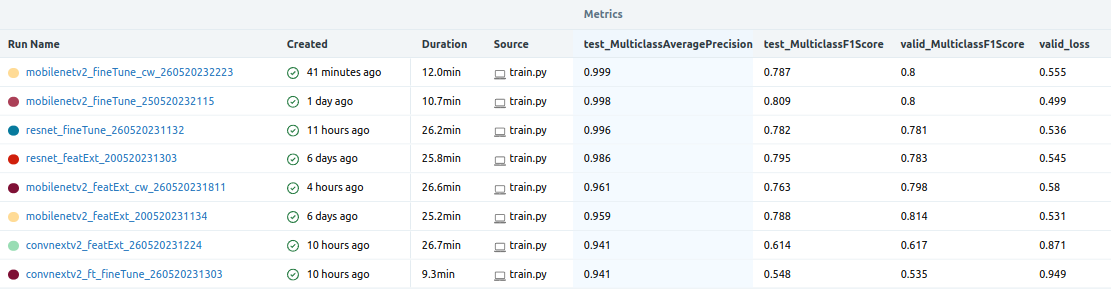
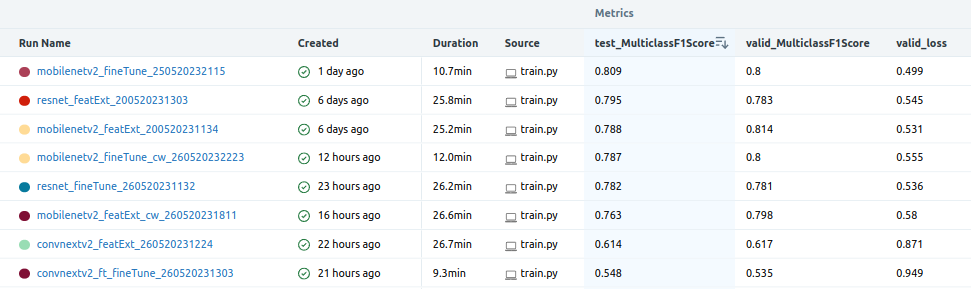
added weighted avg to metrics

diff --git a/src/models.py b/src/models.py
@@ -6,7 +6,7 @@ import torch.nn.functional as F
 import torchvision
 from lightning.pytorch import LightningModule
 from model_utils import create_eval_plots
-from torchmetrics import Accuracy, AveragePrecision, F1Score, MetricCollection
+from torchmetrics import Accuracy, F1Score, MetricCollection, Precision, Recall
 from transformers import AutoModel
 
 
@@ -18,6 +18,7 @@ class HFLitImageClassifier(LightningModule):
         dropout_rate: float = 0.2,
         learning_rate: float = 0.001,
         class_weights: List[float] = None,
+        metric_avg: str = "weighted",
     ):
 
         super().__init__()
@@ -25,6 +26,7 @@ class HFLitImageClassifier(LightningModule):
         self.num_classes = num_classes
         self.learning_rate = learning_rate
         self.class_weights = class_weights
+        self.metric_avg = metric_avg
         self.body = AutoModel.from_pretrained(checkpoint)
         self.last_layer_size = list(self.body.modules())[-1].normalized_shape[0]
         self.classifier = nn.Sequential(
@@ -41,9 +43,26 @@ class HFLitImageClassifier(LightningModule):
         )
         metrics = MetricCollection(
             [
-                Accuracy(task="multiclass", num_classes=self.num_classes),
-                F1Score(task="multiclass", num_classes=self.num_classes),
-                AveragePrecision(task="multiclass", num_classes=self.num_classes),
+                Accuracy(
+                    task="multiclass",
+                    num_classes=self.num_classes,
+                    average=self.metric_avg,
+                ),
+                F1Score(
+                    task="multiclass",
+                    num_classes=self.num_classes,
+                    average=self.metric_avg,
+                ),
+                Precision(
+                    task="multiclass",
+                    num_classes=self.num_classes,
+                    average=self.metric_avg,
+                ),
+                Recall(
+                    task="multiclass",
+                    num_classes=self.num_classes,
+                    average=self.metric_avg,
+                ),
             ]
         )
         self.train_metrics = metrics.clone(prefix="train_")
@@ -73,10 +92,10 @@ class HFLitImageClassifier(LightningModule):
         pixel_values = batch["pixel_values"]
         labels = batch["labels"]
         logits = self(pixel_values)
+        if self.class_weights is not None:
+            self.class_weights = torch.tensor(self.class_weights, device=self.device)
         # nn.CrossEntropyLoss not used to get loss and pred separately
-        loss = F.cross_entropy(
-            logits, labels, weight=torch.tensor(self.class_weights, device=self.device)
-        )
+        loss = F.cross_entropy(logits, labels, weight=self.class_weights)
         preds = torch.softmax(logits, dim=1)
         return loss, preds, labels
 
@@ -188,6 +207,7 @@ class ImageClassifier(LightningModule):
         dropout_rate: float = 0.2,
         learning_rate: float = 0.001,
         class_weights: List[float] = None,
+        metric_avg: str = "weighted",
     ):
 
         super().__init__()
@@ -195,6 +215,7 @@ class ImageClassifier(LightningModule):
         self.num_classes = num_classes
         self.learning_rate = learning_rate
         self.class_weights = class_weights
+        self.metric_avg = metric_avg
         model = torchvision.models.get_model(name=model_name, weights=weights)
         last_layer_size = list(model.modules())[-1].in_features
         self.body = list(model.children())[:-1]
@@ -214,9 +235,26 @@ class ImageClassifier(LightningModule):
         )
         metrics = MetricCollection(
             [
-                Accuracy(task="multiclass", num_classes=self.num_classes),
-                F1Score(task="multiclass", num_classes=self.num_classes),
-                AveragePrecision(task="multiclass", num_classes=self.num_classes),
+                Accuracy(
+                    task="multiclass",
+                    num_classes=self.num_classes,
+                    average=self.metric_avg,
+                ),
+                F1Score(
+                    task="multiclass",
+                    num_classes=self.num_classes,
+                    average=self.metric_avg,
+                ),
+                Precision(
+                    task="multiclass",
+                    num_classes=self.num_classes,
+                    average=self.metric_avg,
+                ),
+                Recall(
+                    task="multiclass",
+                    num_classes=self.num_classes,
+                    average=self.metric_avg,
+                ),
             ]
         )
         self.train_metrics = metrics.clone(prefix="train_")
@@ -246,10 +284,10 @@ class ImageClassifier(LightningModule):
 
         pixel_values, labels = batch
         logits = self(pixel_values)
+        if self.class_weights is not None:
+            self.class_weights = torch.tensor(self.class_weights, device=self.device)
         # nn.CrossEntropyLoss not used to get loss and pred separately
-        loss = F.cross_entropy(
-            logits, labels, weight=torch.tensor(self.class_weights, device=self.device)
-        )
+        loss = F.cross_entropy(logits, labels, weight=self.class_weights)
         preds = torch.softmax(logits, dim=1)
         return loss, preds, labels
 
@@ -288,7 +326,7 @@ class ImageClassifier(LightningModule):
         )
         mlflow_logger.log_figure(
             figure=fig_bar,
-            artifact_file="val_pos_neg_counts.png",
+            artifact_file="val_cm_count_plot.png",
             run_id=self.logger.run_id,
         )
         mlflow_logger.log_figure(
@@ -317,7 +355,7 @@ class ImageClassifier(LightningModule):
         )
         mlflow_logger.log_figure(
             figure=fig_bar,
-            artifact_file="test_pos_neg_counts.png",
+            artifact_file="test_cm_count_plot.png",
             run_id=self.logger.run_id,
         )
         mlflow_logger.log_figure(

diff --git a/src/train.py b/src/train.py
@@ -48,6 +48,7 @@ def main(cfg: DictConfig) -> None:
                 num_classes=cfg["data"]["num_classes"],
                 learning_rate=cfg["train"]["params"]["learning_rate"],
                 class_weights=cfg["data"]["class_weights"],
+                metric_avg=cfg["train"]["metrics"]["average"],
             )
 
     elif cfg["model"]["framework"] == "torch":
@@ -74,6 +75,7 @@ def main(cfg: DictConfig) -> None:
                 num_classes=cfg["data"]["num_classes"],
                 learning_rate=cfg["train"]["params"]["learning_rate"],
                 class_weights=cfg["data"]["class_weights"],
+                metric_avg=cfg["train"]["metrics"]["average"],
             )
 
     # If fine-tune, set requires_grad=False for layers up to num_layers in body
@@ -97,7 +99,7 @@ def main(cfg: DictConfig) -> None:
         dirpath=cwd / cfg["model"]["model_dir"],
         save_top_k=1,
         verbose=True,
-        monitor="valid_loss",
+        monitor="valid_MulticlassF1Score",
         mode="max",
     )
 

diff --git a/src/model_utils.py b/src/model_utils.py
@@ -111,6 +111,7 @@ def multiclass_prc(
     fig_prc, ax_prc = plt.subplots()
     enc = OneHotEncoder()
     enc.fit(np.arange(0, num_classes, 1).reshape(-1, 1))
+    # 1d labels need to be ohe
     labels_ohe = enc.transform(np.array(labels).reshape(-1, 1)).toarray()
     # Per class precision-recall
     for i in range(len(classes)):
